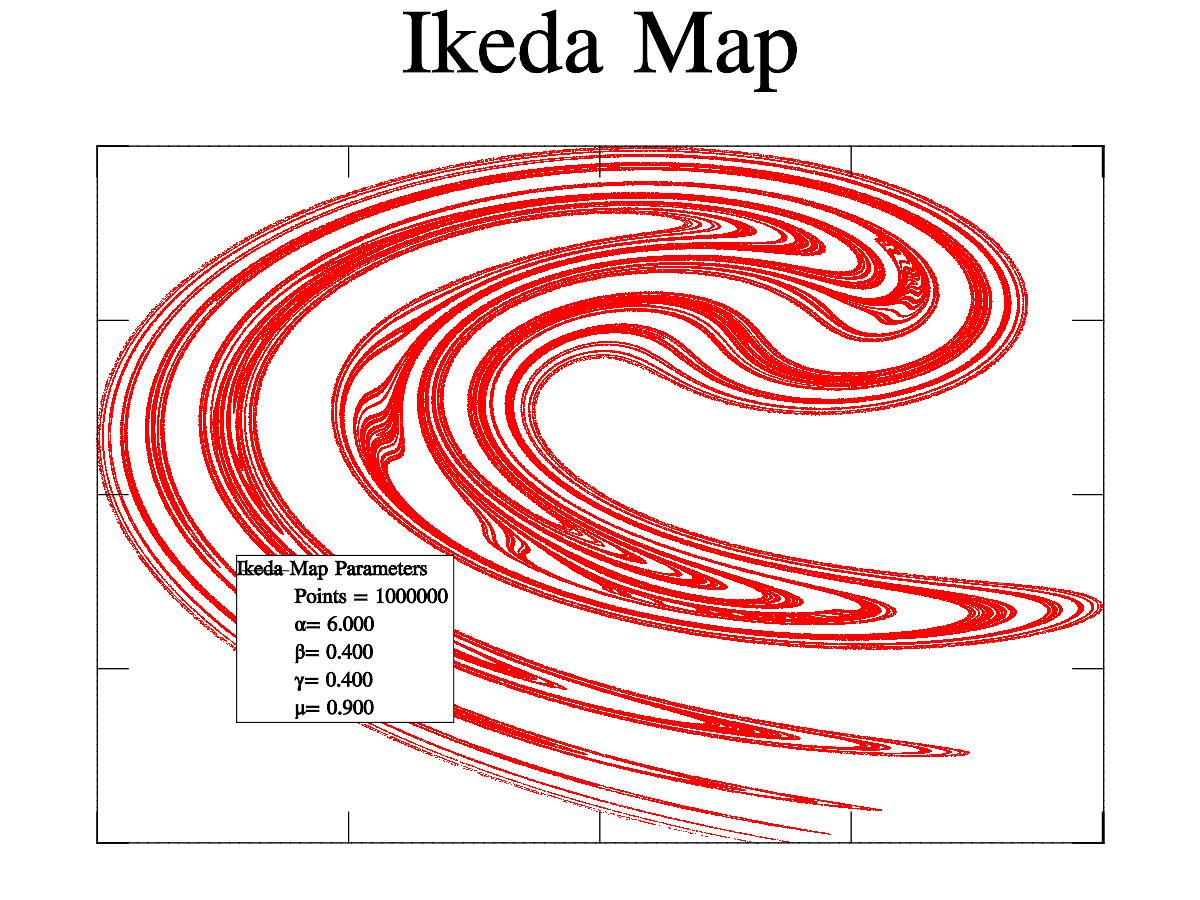
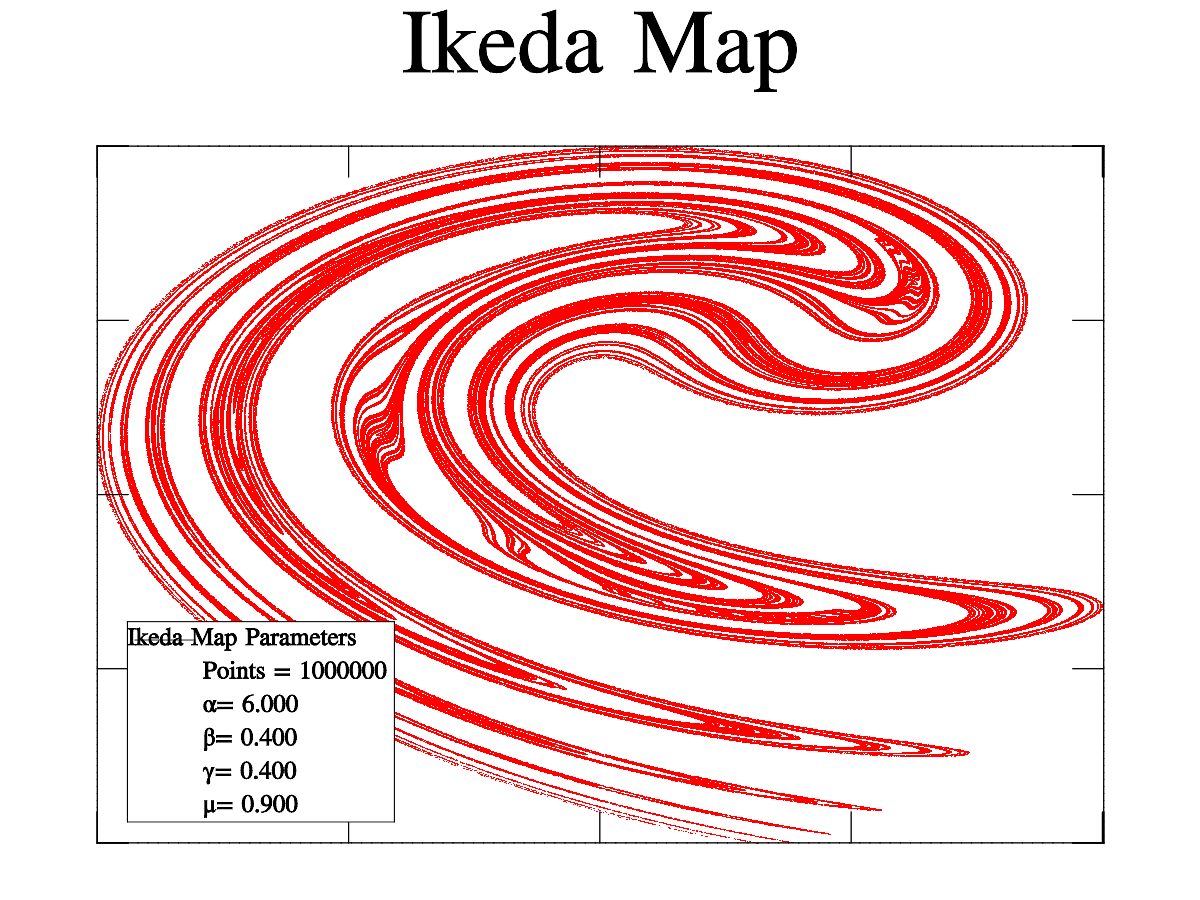
Graphics aesthetics improved.

Changed region(s): [[0.0925, 0.5911, 0.4008, 0.9022]]

diff --git a/3-Ikeda_map/ikeda_map.cpp b/3-Ikeda_map/ikeda_map.cpp
@@ -95,6 +95,8 @@ int main()
 	gr->Light(true);
 	gr->SetMarkSize(0.0005);
 	gr->Title("Ikeda Map");
+
+	gr->SubPlot(1,1,0,"^"); // Reserve aditional space only on the upper side  Default value is "<>_^" 
 	
 // 	gr->AddLegend(parametros,"b");
 	
@@ -106,7 +108,7 @@ int main()
 	gr->AddLegend("Ikeda Map Parameters","");
 	gr->Legend(0,0,2.3); //put the legend in 0,0, wiht font size 2.3
 	
-	gr->SubPlot(1,1,0,"^"); // Reserve aditional space only on the upper side  Default value is "<>_^" 
+//	gr->SubPlot(1,1,0,"^"); // Reserve aditional space only on the upper side  Default value is "<>_^" 
 	
 	gr->Box(); // The bounding box. Note that putting this on a line before SubPlot will give an unbounded graph (box undersized)
 	
